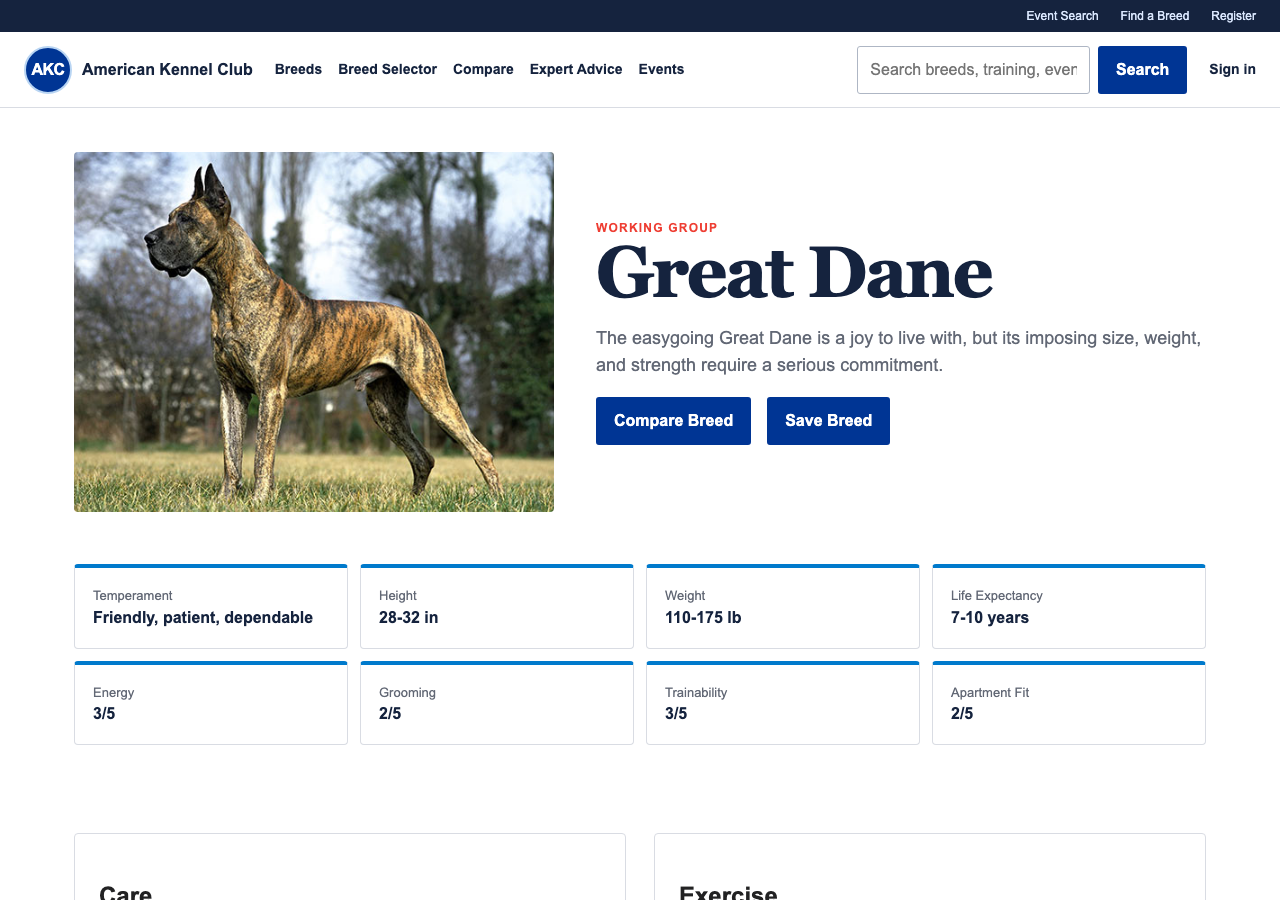
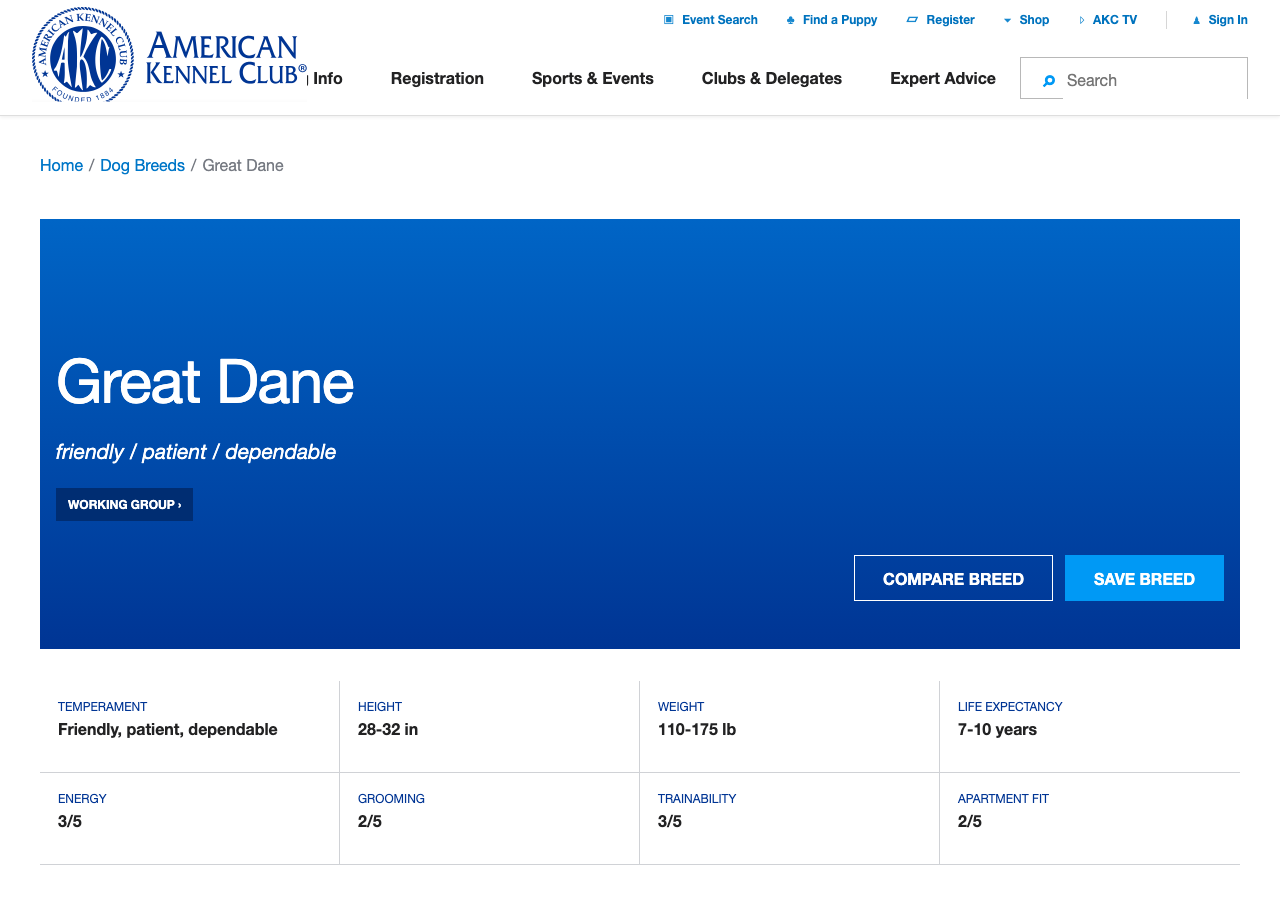
docs(review): refresh AKC visual evidence

diff --git a/review-reports/PR-40-AKC.md b/review-reports/PR-40-AKC.md
@@ -1,14 +1,12 @@
 # AKC reviewer validation
 
-Status: **Draft; not ready for maintainer handoff.** The reviewed implementation and
-HF asset candidate are fixed below. All 13 canonical tasks have real browser runs,
-deterministic PASS results, and matching independent blind-review PASS verdicts. The
-fresh full Docker build is not yet run because the host is below the review procedure's
-50 GiB free-space threshold.
+Status: **Draft; not ready for maintainer handoff.** The source-shaped visual repair
+and refreshed real-browser task runs are complete. A replacement blind review and the
+fresh full Docker build remain open gates.
 
 This review preserves [@Sun-sunshine06's original AKC contribution, PR #40](https://github.com/aiming-lab/WebHarbor/pull/40)
-as commit `83e9e6fb685bd2daf8b69aea2b0807e3add93f82` with the contributor's original
-authorship. Reviewer fixes are later commits on an independent branch. The branch
+as commit `83e9e6fb685bd2daf8b69aea2b0807e3add93f82`, with the contributor's
+authorship unchanged. Reviewer fixes are appended on an independent branch. The branch
 integrates `main` at `454e7a49c37abe7eb074f6c86200a1308f109740`, assigns AKC
 port **40040**, and keeps the registry at 41 sites.
 
@@ -16,19 +14,18 @@ port **40040**, and keeps the registry at 41 sites.
 
 | Item | Value |
 |---|---|
-| Executed implementation fixed point | `8a06cfae154ec100feb00b194c2a64389a6756dc` |
-| Current integrated code point | `b48637f68c7b5e4721d5c33290b6b8d85e5c2664` |
+| Executed visual/task fixed point | `ea6c2cbeb9a55f5c8f0a03a9a21130debef4d9ee` |
+| Packaged code point | `6b526ec58f8db1c3520ad43265659d370936501d` |
 | Base | `454e7a49c37abe7eb074f6c86200a1308f109740` (`main`) |
 | Original contribution | `83e9e6fb685bd2daf8b69aea2b0807e3add93f82`, original author preserved |
 | HF asset PR | [ChilleD/WebHarbor #97](https://huggingface.co/datasets/ChilleD/WebHarbor/discussions/97), open |
-| Pinned HF revision | `4b3879d288dabff17257e04b3b27e43b8628f63d` |
[1 lines of base64/hex data omitted]
+| Pinned HF revision | `dc253d3f17cb5d83ee00f9bbc2100a296126327d` |
[2 lines of base64/hex data omitted]
 
-The immutable HF archive was downloaded again through the official client and matched
-the local archive, seed, and 24-file AKC asset inventory. The Dockerfile now requires
-that pinned seed/archive instead of generating a non-reproducible salted seed during
-the image build.
+The HF archive was downloaded again by immutable revision and matched the local
+archive. Its 45 managed members include the frozen seed, 24 breed images, and 16
+source-backed task-path visual assets. The tracked inventory verifies all 40 images.
 
 ## Review findings and repairs
 
@@ -36,121 +33,101 @@ The original site supplied a useful Flask/Jinja foundation, AKC-shaped routes, s
 entities, and ten task ideas. The review found issues that prevented reliable
 acceptance:
 
-- the UI was sparse and used placeholders rather than a recognizable photographic AKC
-  experience;
+- the UI was sparse and visually distant from the live AKC site;
 - the login page exposed seeded credentials;
 - list cards disclosed facts that tasks were supposed to require opening detail pages;
 - selector answers were posted without reproducible URL state;
-- article identity and wording did not match the current official AKC article;
+- article identity and wording did not match the official AKC article;
 - the seed was regenerated with salted password hashes instead of being immutable;
 - tasks had no deterministic verifier or browser-evidence contract;
 - state actions accepted invalid values and allowed duplicate saved/registration rows.
 
-The candidate keeps the original stack and contribution, while adding an AKC-like
-responsive layout, 24 locally bundled official images, validated forms and uniqueness
-constraints, reproducible selector/filter URLs, a pinned seed archive, 13 task-specific
-offline verifiers, and focused application/verifier tests. Credentials are no longer
-rendered in the UI. Task-critical facts are on detail pages rather than listing cards.
-
-Official-source checks corrected the breeder article to
-[Questions You Can Ask Your Potential Breeder](https://www.akc.org/expert-advice/nutrition/questions-to-ask-your-potential-breeder/)
-by Randa Kriss and checked the Cavalier King Charles Spaniel dimensions against AKC's
-breed material. Breed/event/user data used only for benchmark interactions remains
-fixed synthetic state and is not represented as current live AKC data.
+The candidate keeps the original framework and author contribution. It adds an
+AKC-shaped responsive header, home page, breed/search/compare/selector flows, advice
+and event pages, account forms, locally bundled source assets, validated forms and
+uniqueness constraints, reproducible URLs, an immutable seed, 13 offline verifiers,
+and focused tests. Credentials are no longer rendered in the UI, and task-critical
+facts remain on their intended detail paths.
 
 ## UI and visual fidelity
 
-The mirror and live source were opened side by side for human comparison. The candidate
-uses local assets only. Four real responsive viewports—1440×900, 768×900, 390×844, and
-320×568—showed no horizontal overflow. Browser console inspection after reload found
-no warnings or errors.
+The mirror and live source were captured at the same four viewports: 1440×900,
+768×900, 390×844, and 320×568. The final matrix covers 11 task-path pages for both
+source and mirror: **88 captures, 0 capture errors**. All **44 mirror captures** have
+no horizontal overflow. Source cookie overlays were dismissed before capture.
 
-| Original source | Original mirror | Candidate |
+| Live source | Original mirror | Repaired mirror |
 |---|---|---|
 | ![AKC source home](assets/pr40-akc/visual/source-home-1440.png) | ![Original AKC mirror](assets/pr40-akc/visual/baseline-mirror-home-1440.png) | ![Reviewed AKC mirror](assets/pr40-akc/visual/home-1440x900.png) |
 
-| Responsive candidate | Evidence |
+| Repaired mirror | Evidence |
 |---|---|
 | 768×900 | ![AKC candidate at 768](assets/pr40-akc/visual/home-768x900.png) |
 | 390×844 | ![AKC candidate at 390](assets/pr40-akc/visual/home-390x844.png) |
 | 320×568 | ![AKC candidate at 320](assets/pr40-akc/visual/home-320x568.png) |
 
-The in-app browser's full-page stitcher duplicated already rendered blocks in its PNG
-output even though the DOM contained one copy. Those PNGs were rejected; the retained
-candidate images were recaptured with the project's existing Playwright Chromium
-runtime. DOM counts, dimensions, and overflow checks were kept separate from screenshot
-evidence.
+Manual comparison covered home, breed listing/detail, selector, comparison, search,
+article listing/detail, event listing, registration, and login. The repair aligns
+content order, typography hierarchy, navigation, card/grid shape, forms, and
+responsive collapse. The live site's rotating campaign image, ads, app banner,
+PuppyVisor, commerce/video integrations, and other dynamic marketing layers are not
+reproduced. Several live-source narrow pages themselves overflow; the mirror does not
+copy those defects.
 
 ## Task and verifier quality
 
-The candidate has 13 tasks: nine read-only navigation/reasoning tasks and four exact
-state-change tasks. Read tasks require filtered/search/account paths plus detail facts
-or correctly bound comparisons. State tasks require the specified actor, UI action,
-and exact SQLite delta, rejecting no-ops, wrong accounts, duplicate/extra writes, and
-collateral changes.
+The accepted set has 13 tasks: nine read-only navigation/reasoning tasks and four
+exact state-change tasks. Read tasks require filtered/search/account paths plus detail
+facts or correctly bound comparisons. State tasks require the specified actor, UI
+action, and exact SQLite delta, rejecting no-ops, wrong accounts, duplicate/extra
+writes, and collateral changes.
 
-Every task was run from a fresh seed through real Playwright Chromium UI actions. The
-13 selected runs contain 71 recorded actions, step screenshots, exact task text and
-final answers, plus initial/after SQLite snapshots. All 13 passed the repository's
-`eval_judge.py --verifier True` path. See the
+After the visual repair, all tasks were rerun as `candidate-003` from a fresh immutable
+seed through real Playwright Chromium actions. The runs contain 71 actions, step
+screenshots, task text and final answers, and initial/after SQLite snapshots. All
+13 passed `eval_judge.py --verifier True`. See the
 [per-task table](assets/pr40-akc/tasks/task-table.md) and
 [structured results](assets/pr40-akc/tasks/task-results.json).
 
-The real runs exposed one verifier false negative: native GET forms include untouched
-empty controls such as `q=` or `state=`. Exact-query validation now treats
-empty-only controls as absent while still rejecting any real extra narrowing. The
-regression suite covers that legal browser path and retains the negative check for
-additional non-empty query constraints.
+The verifier suite covers all 13 positives, compare-order alternatives,
+entity/value binding, knowledge shortcuts, wrong answers, non-empty extra query
+narrowing, foreign origins, stale task text, failed actions, no-ops, wrong
+actors/values, and collateral writes. Empty native GET controls are treated as absent,
+while real extra narrowing remains rejected.
 
-The verifier unittest suite passes 13/13 methods and covers all 13 positives, compare
-order alternatives, entity/value binding, knowledge shortcuts, wrong answers, extra
-query narrowing, foreign origins, stale task text, failed actions, no-ops, wrong
-actors/values, and collateral writes.
-
-The frozen first-pass blind review independently returned **13 PASS / 0 FAIL** for
-the same 13 runs. Its packet manifest SHA-256 is
[1 lines of base64/hex data omitted]
-result SHA-256 is
[1 lines of base64/hex data omitted]
-The [public blind-review receipt](https://github.com/aiming-lab/WebHarbor/pull/134#issuecomment-5730265701)
-records the scope and exclusions. Task-by-task comparison found no disagreement with
-the deterministic verifier. A reviewer re-check of representative common PASS cases
-covered the selector task (AKC--1), exact event-registration write (AKC--8), and
-three-breed comparison (AKC--12).
-
-After the blind result was frozen, current `main` was merged without changing AKC
-application, seed, rubric, or verifier behavior. The only AKC task-file change is the
-registry-driven base URL shift from port 40035 to 40040; existing runs used an explicit
-case-local port and remain semantically applicable. Registry, asset, application, and
-verifier checks were repeated on the integrated tree.
+The earlier blind review returned 13/13 PASS for the pre-visual-repair candidate. It is
+retained as historical evidence only because it explicitly did not assess visual
+fidelity and its packet predates the material UI changes. The refreshed candidate is
+**pending a replacement blind review**.
 
 ## Engineering results
 
 | Check | Observed result |
 |---|---|
-| Canonical UI runs | 13/13 completed, 71 recorded actions |
+| Refreshed UI runs | 13/13 completed, 71 recorded actions (`candidate-003`) |
 | Deterministic grading | 13/13 PASS through `eval_judge.py --verifier True` |
-| AKC app tests | 8/8 PASS in the project dependency image |
-| Verifier tests | 13/13 unittest methods PASS |
-| Anonymous route sweep | 58/58 HTTP 200, including all breed/article/event details |
+| AKC app tests | 8/8 PASS |
+| Verifier tests | 13/13 methods PASS; 71 subtests |
+| Anonymous route sweep | 58/58 HTTP 200 |
 | Registry | 41 sites consistent; ports 40000–40040 |
-| Extracted assets | Full repository check PASS; AKC inventory 24/24 |
-| Browser console | 0 warnings/errors after candidate reload |
-| Responsive overflow | none at 1440, 768, 390, and 320 CSS pixels |
-| Fresh full Docker build | **NOT RUN** — 41 GiB free; procedure requires 50 GiB before starting |
-| Independent blind review | 13/13 PASS; 0 disagreements with deterministic grading |
+| Extracted assets | Repository check PASS; AKC inventory 40/40 |
+| Visual matrix | 88/88 captured; mirror 44/44 without horizontal overflow |
+| HF archive | remote immutable download matched; 45 managed members validated |
+| Fresh full Docker build | **NOT RUN** — 35 GiB free; procedure requires 50 GiB before starting |
+| Refreshed independent blind review | **PENDING** |
 
-Two failed diagnostic attempts are not counted as passes: a stale preview process still
-held the old Python route until restart, and atomic replacement of a live SQLite file
-left the pooled connection pointing at an obsolete inode. Canonical state runs instead
-stop the case-specific preview, restore the immutable seed, restart, and then execute.
+Failed diagnostic attempts are not counted as passes. In particular, stale preview
+processes and unsafe atomic replacement of a database used by a pooled SQLite handle
+were rejected; canonical state runs stop the preview, restore the seed, restart it,
+and then execute.
 
 ## Remaining gates
 
-1. Free enough disk to reach the 50 GiB pre-build threshold and run the fresh full
-   Docker build plus final image-level health/reset checks.
-2. Mark the Review PR ready only if that remaining gate passes. Do not merge either PR
-   from the reviewer account.
+1. Run the frozen replacement blind-review packet and reconcile its task verdicts.
+2. Free enough disk to reach the 50 GiB pre-build threshold, then run the fresh full
+   Docker build and final image-level health/reset checks.
+3. Mark the Review PR ready only after both gates pass. Do not merge either PR from
+   the reviewer account.
 
 ## Reproduction
 

diff --git a/review-reports/assets/pr40-akc/tasks/task-table.md b/review-reports/assets/pr40-akc/tasks/task-table.md
@@ -6,16 +6,19 @@ run. These are guided validation runs, not a model success-rate study.
 
 | Task | Scope | Steps | Verifier | Blind review | Final evidence |
 |---|---|---:|---|---|---|
-| AKC--0 | Toy + Small breed detail facts | 5 | PASS | PASS | [screenshot](AKC--0-final.png) |
-| AKC--1 | Selector ranking and profile fact | 7 | PASS | PASS | [screenshot](AKC--1-final.png) |
-| AKC--2 | Two-breed comparison | 3 | PASS | PASS | [screenshot](AKC--2-final.png) |
-| AKC--3 | Alice saved-breed account path | 5 | PASS | PASS | [screenshot](AKC--3-final.png) |
-| AKC--4 | On-site article search | 3 | PASS | PASS | [screenshot](AKC--4-final.png) |
-| AKC--5 | Event filter and detail facts | 4 | PASS | PASS | [screenshot](AKC--5-final.png) |
-| AKC--6 | Official article category path | 3 | PASS | PASS | [screenshot](AKC--6-final.png) |
-| AKC--7 | Group + temperament search | 5 | PASS | PASS | [screenshot](AKC--7-final.png) |
-| AKC--8 | Exact Alice event registration delta | 9 | PASS | PASS | [screenshot](AKC--8-final.png) |
-| AKC--9 | Alice activity-only update | 6 | PASS | PASS | [screenshot](AKC--9-final.png) |
-| AKC--10 | Bob saved-breed insert | 9 | PASS | PASS | [screenshot](AKC--10-final.png) |
-| AKC--11 | Exact owner-profile creation | 9 | PASS | PASS | [screenshot](AKC--11-final.png) |
-| AKC--12 | Three-breed comparison | 3 | PASS | PASS | [screenshot](AKC--12-final.png) |
+| AKC--0 | Toy + Small breed detail facts | 5 | PASS | PENDING | [screenshot](AKC--0-final.png) |
+| AKC--1 | Selector ranking and profile fact | 7 | PASS | PENDING | [screenshot](AKC--1-final.png) |
+| AKC--2 | Two-breed comparison | 3 | PASS | PENDING | [screenshot](AKC--2-final.png) |
+| AKC--3 | Alice saved-breed account path | 5 | PASS | PENDING | [screenshot](AKC--3-final.png) |
+| AKC--4 | On-site article search | 3 | PASS | PENDING | [screenshot](AKC--4-final.png) |
+| AKC--5 | Event filter and detail facts | 4 | PASS | PENDING | [screenshot](AKC--5-final.png) |
+| AKC--6 | Official article category path | 3 | PASS | PENDING | [screenshot](AKC--6-final.png) |
+| AKC--7 | Group + temperament search | 5 | PASS | PENDING | [screenshot](AKC--7-final.png) |
+| AKC--8 | Exact Alice event registration delta | 9 | PASS | PENDING | [screenshot](AKC--8-final.png) |
+| AKC--9 | Alice activity-only update | 6 | PASS | PENDING | [screenshot](AKC--9-final.png) |
+| AKC--10 | Bob saved-breed insert | 9 | PASS | PENDING | [screenshot](AKC--10-final.png) |
+| AKC--11 | Exact owner-profile creation | 9 | PASS | PENDING | [screenshot](AKC--11-final.png) |
+| AKC--12 | Three-breed comparison | 3 | PASS | PENDING | [screenshot](AKC--12-final.png) |
+
+The earlier 13/13 blind result covered the superseded pre-visual-repair candidate and
+is retained only as historical evidence. This table requires a refreshed blind pass.
